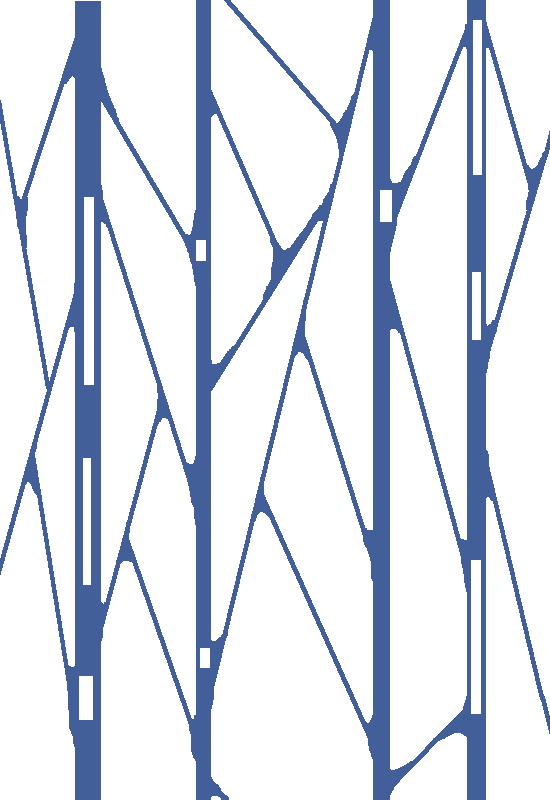
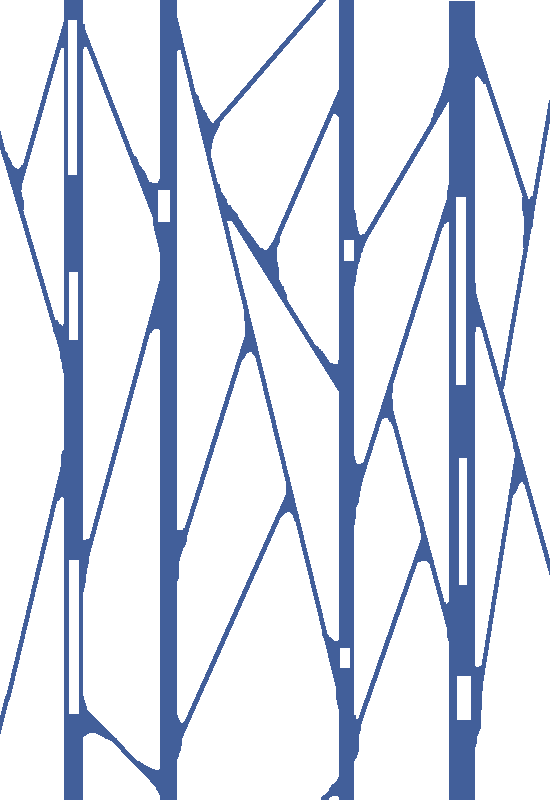
Popper; randomly flipped bg images

diff --git a/src/scripts/popper.js b/src/scripts/popper.js
@@ -1,0 +1,76 @@
+import { Enemy } from './enemy.js';
+import { SpriteLibrary } from './spriteLibrary.js';
+import { Emitter } from './emitter.js';
+import { RandomGenerator } from './randomGenerator.js';
+import { GameState } from './gameState.js';
+import { EnemyTypes } from './enemyTypes.js';
+import { Bomb } from './bomb.js';
+import { Platforms } from './platforms.js';
+
+export class Popper extends Enemy {
+    constructor(game, x, y, spriteIdle) {
+        super(
+            game,
+            x,
+            y,
+            SpriteLibrary.SIZES.POPPER.width,
+            SpriteLibrary.SIZES.POPPER.height,
+            EnemyTypes.POPPER,
+            spriteIdle,
+            true
+        );
+
+        this.spriteIdle = spriteIdle;
+        this.spriteShoot = SpriteLibrary.popperShoot();
+        this.sprites = [this.spriteIdle, this.spriteShoot];
+        this.spawnPosition = {
+            x: x + this.currentSprite.width * 0.5,
+            y: y,
+        };
+        this.bombSpawner = new Emitter(game, {
+            emit: (i) => {
+                if (i === 0 || i === 1) {
+                    this.currentSprite = this.spriteShoot;
+                    this.currentSprite.reset();
+                    Bomb.spawn(
+                        game,
+                        this.spawnPosition.x,
+                        this.spawnPosition.y,
+                        RandomGenerator.randomSign()
+                    );
+                } else {
+                    this.currentSprite = this.spriteIdle;
+                    this.currentSprite.reset();
+                }
+            },
+            delays: [
+                RandomGenerator.randomIntBetween(5000, 6000),
+                1000,
+                800
+            ],
+        });
+    }
+
+    update() {
+        super.update();
+        if (this.isDead) {
+            return;
+        }
+        if (this.game.state === GameState.PLAYING) {
+            this.bombSpawner.update();
+        }
+    }
+
+    static spawn(game) {
+        const eligiblePlatformYs = Platforms.getPlatformYs().filter((y, i) => i < 4);
+        return new Popper(
+            game,
+            RandomGenerator.randomIntBetween(
+                1,
+                game.canvas.width - SpriteLibrary.SIZES.POPPER.width - 1
+            ),
+            RandomGenerator.randomFromArray(eligiblePlatformYs) - SpriteLibrary.SIZES.POPPER.height,
+            SpriteLibrary.popperIdle()
+        );
+    }
+}

diff --git a/src/scripts/level.js b/src/scripts/level.js
@@ -13,6 +13,7 @@ import { Pounder } from './pounder.js';
 import { Chaser } from './chaser.js';
 import { Sentry } from './sentry.js';
 import { Dumper } from './dumper.js';
+import { Popper } from './popper.js';
 
 export class Level {
     static MAX_GEMS = 20;
@@ -57,6 +58,9 @@ export class Level {
         });
         this.dumperSpawner = new Spawner(() => {
             return Dumper.spawn(game);
+        });
+        this.popperSpawner = new Spawner(() => {
+            return Popper.spawn(game);
         });
     }
 
@@ -175,6 +179,14 @@ export class Level {
             (this.world.number === 5 && [5, 7, 9, 11, 12, 13, 14, 16, 18].indexOf(this.number) >= 0)
         ) {
             initialEnemies.push(this.heavySpawner.spawnWithoutIntersecting(initialEnemies));
+        }
+
+        // Popper
+        if (true) {
+            const popperCount = 1;
+            for (let i = 0; i < popperCount; i++) {
+                initialEnemies.push(this.popperSpawner.spawnWithoutIntersecting(initialEnemies));
+            }
         }
 
         // Turrets: very hard

diff --git a/src/scripts/spriteLibrary.js b/src/scripts/spriteLibrary.js
@@ -95,6 +95,10 @@ export class SpriteLibrary {
             width: 32,
             height: 64,
         },
+        POPPER: {
+            width: 48,
+            height: 64,
+        },
     };
 
     static preloadImages() {
@@ -206,6 +210,31 @@ export class SpriteLibrary {
             0,
             22,
             12
+        );
+    }
+
+    static popperIdle() {
+        return new AnimatedSprite(
+            'images/popper.png',
+            SpriteLibrary.SIZES.POPPER.width,
+            SpriteLibrary.SIZES.POPPER.height,
+            0,
+            8,
+            6,
+            true
+        );
+    }
+
+    static popperShoot() {
+        return new AnimatedSprite(
+            'images/popper.png',
+            SpriteLibrary.SIZES.POPPER.width,
+            SpriteLibrary.SIZES.POPPER.height,
+            0,
+            2,
+            14,
+            false,
+            SpriteLibrary.SIZES.POPPER.width * 8
         );
     }
 

diff --git a/src/scripts/game.js b/src/scripts/game.js
@@ -462,7 +462,8 @@ game.addGameObject(myGameObject)
                         x.type === EnemyTypes.HEAVY ||
                         x.type === EnemyTypes.CHASER ||
                         x.type === EnemyTypes.BOSS ||
-                        x.type === EnemyTypes.DUMPER
+                        x.type === EnemyTypes.DUMPER ||
+                        x.type === EnemyTypes.POPPER
                 )
                 .forEach((x) => x.render(this.renderContext));
             this.player.render(this.renderContext);

diff --git a/src/scripts/turret.js b/src/scripts/turret.js
@@ -67,11 +67,4 @@ export class Turret extends Enemy {
                 SpriteLibrary.SIZES.TURRET.height
         );
     }
-
-    // handleShot() {
-    //     super.handleShot();
-    //     if (this.isDead) {
-    //         this.currentSprite.filterManager.animate(FilterManager.blurFadeOutAnimation(), this.game.gameTime, 250);
-    //     }
-    // }
 }

diff --git a/src/scripts/enemyTypes.js b/src/scripts/enemyTypes.js
@@ -12,4 +12,5 @@ export class EnemyTypes {
     static CHASER = 'CHASER';
     static SENTRY = 'SENTRY';
     static DUMPER = 'DUMPER';
+    static POPPER = 'POPPER';
 }
